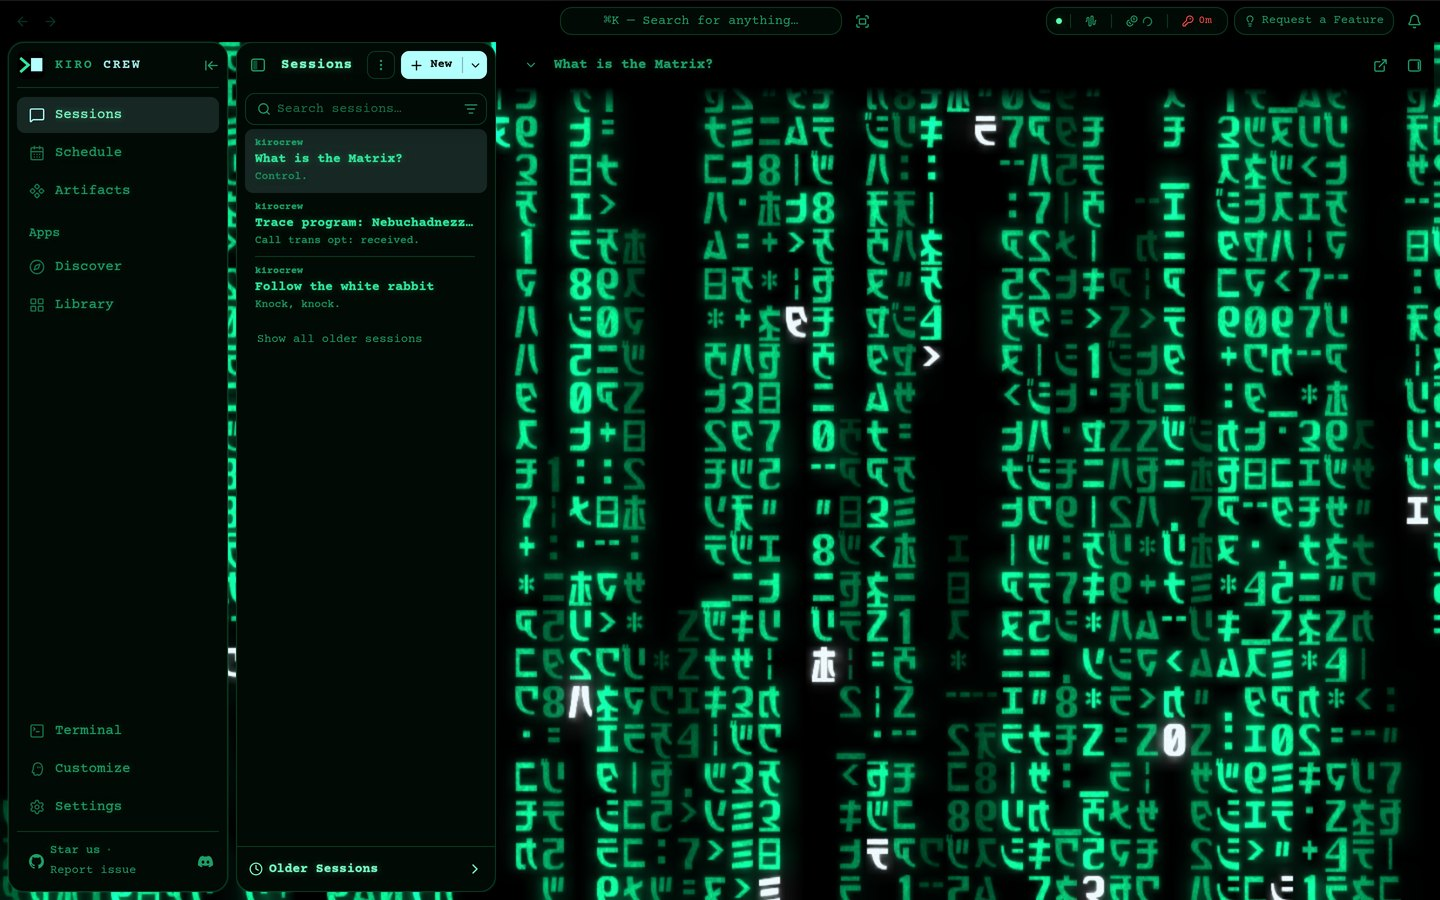
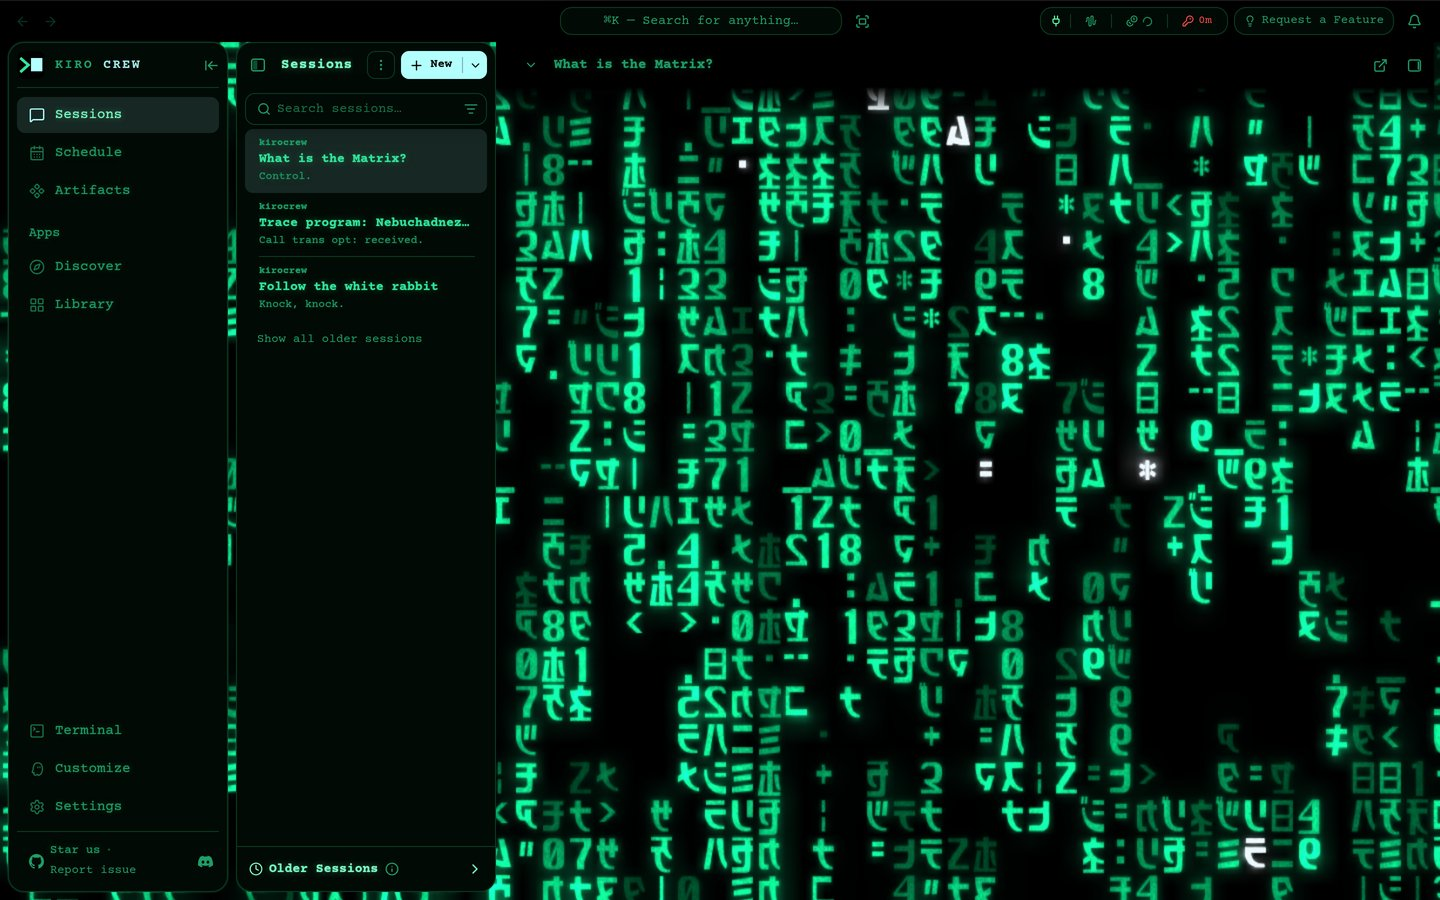
Screensaver rain moves like the film
The rain now runs at the film's 24 frames per second on a film-frame clock (3-2 cadence at 60 Hz). Drop heads jump whole cells at 9-37 rows a second, trails are a few rows with a long tail, about two drops share a column, and a lit glyph changes about once a second. White leads stay at 1.8% of the lit area and about 22% of the screen is lit. The terminal intro, colors, glyphs, dismiss and sleep are unchanged. The README film table gains motion rows, and the rain screenshot is re-rendered.

diff --git a/overlays/rain.html b/overlays/rain.html
@@ -29,6 +29,11 @@
  *    is a wave of light passing down a column; several drops share a column
  *    without colliding; the lead glyph is a near-white "cursor"; glyphs flicker
  *    to new symbols; everything is bloomed, then mapped to the green palette.
+ *    The motion is the film's, measured from its opening titles (see the repo
+ *    README): 24 frames a second, heads jump whole cells per film frame (mostly
+ *    one row, sometimes none or two) at about 9-37 rows a second, trails are
+ *    mostly a few rows with a long tail, about two drops share a column, and a
+ *    lit glyph changes about once a second.
  *
  * Runs inside the dashboard's sandboxed overlay iframe (no network, no storage).
  * The dashboard mounts it after 15 idle minutes and removes it on a key press
@@ -56,6 +61,7 @@
     [1.00, [14, 205, 128]],
   ]
   const LEVELS = 24
+  const LEAD_SHARE = 0.14
 
   const canvas = document.getElementById('screen')
   const ctx = canvas.getContext('2d')
@@ -130,27 +136,26 @@
     timers = new Float32Array(cols * rows)
     for (let i = 0; i < grid.length; i++) {
       grid[i] = (Math.random() * RAIN.count) | 0
-      timers[i] = Math.random() * 4
+      timers[i] = Math.random() * 1.3
     }
     columns = []
     for (let c = 0; c < cols; c++) columns.push(newColumn())
   }
 
   function newColumn() {
-    // Speed in rows/second, period between drop heads, and how much of that
-    // period the trail fills (modulating it keeps drops from looking cloned
-    // and leaves dark gaps, so drops in one column never collide).
-    // Long periods keep the number of drop heads on screen near the film's
-    // (about one white lead per five columns); long trails keep ~20 % lit.
-    const period = rows * (1.6 + Math.random() * 2.4)
+    // Film: heads at 9-37 rows/s (median ~22), trails median ~5 rows with a
+    // tail past the screen height, and gaps of 2-7 rows, so about two drops
+    // share a column, they never collide, and ~22 % of the screen is lit.
+    // Speed, trail and gap differ per column, so drops do not look cloned.
+    const trail = 2 + 32 * Math.pow(Math.random(), 1.6)
+    const period = Math.round(trail + 2 + Math.random() * 5)
     return {
-      speed: 7 + Math.random() * 9,
+      speed: 9 + Math.random() * 28,
       period,
-      trail: period * (0.55 + Math.random() * 0.4),
-      phase: Math.random() * period,
+      trail,
+      phase: Math.floor(Math.random() * period),
       gain: 0.75 + Math.random() * 0.25,
-      // In the film only some drop heads flare white; the rest end in bright green.
-      lead: Math.random() < 0.7,
+      leadAt: Math.random(),
     }
   }
 
@@ -247,23 +252,31 @@
     ctx.globalAlpha = alpha
     for (let c = 0; c < cols; c++) {
       const col = columns[c]
-      const head = now * col.speed + col.phase
+      // Whole cells: the head sits on a glyph and jumps on film frames.
+      const head = Math.floor(now * col.speed) + col.phase
       const x = c * cellW + (cellW - gw) / 2
       for (let r = 0; r < rows; r++) {
-        let d = (head - r) % col.period
+        const s = head - r
+        let d = s % col.period
         if (d < 0) d += col.period
         const i = c * rows + r
         timers[i] -= dt
         let b
-        if (d < 1) b = col.lead ? 2 : col.gain
-        else if (d < col.trail) b = Math.pow(1 - d / col.trail, 0.6) * col.gain
+        if (d < 1) {
+          // In the film only some drop heads flare white; the rest end in bright
+          // green. Each drop takes its turn (an even spread down the column), and
+          // LEAD_SHARE of them flare, which keeps white leads at the film's share
+          // of the lit area.
+          const u = ((s - d) / col.period * 0.6180339887 + col.leadAt) % 1
+          b = (u < 0 ? u + 1 : u) < LEAD_SHARE ? 2 : col.gain
+        } else if (d < col.trail) b = Math.pow(1 - d / col.trail, 0.6) * col.gain
         else continue
         // The film shows few faint ghosts: a lit trail stays bright, then ends.
         if (b < 0.14) continue
-        // Lit glyphs change symbol now and then; brighter ones more often.
+        // Film: a lit glyph changes about once a second; white leads faster.
         if (timers[i] <= 0) {
           grid[i] = (Math.random() * RAIN.count) | 0
-          timers[i] = 0.4 + Math.random() * (b > 1 ? 0.3 : 3.5)
+          timers[i] = 0.25 + Math.random() * (b > 1 ? 0.2 : 1.1)
         }
         const g = grid[i]
         const sx = (g % RAIN.cols) * RAIN.cell
@@ -349,12 +362,21 @@
     window.addEventListener('pointerdown', e => { e.preventDefault(); dismiss() })
     window.addEventListener('wheel', dismiss, { passive: true })
     window.addEventListener('keydown', dismiss)
+    // Film frames of rain shown so far (-1 until the rain starts).
+    let film = -1
     function frame(ts) {
       const dt = Math.min(0.25, (ts - last) / 1000)
       last = ts
       acc += dt
-      if (acc >= FRAME) {
-        const t = (ts - start) / 1000
+      const t = (ts - start) / 1000
+      // The terminal draws on its own cadence, as before. The rain advances
+      // whole film frames and keeps the remainder, so a 60 Hz screen shows them
+      // on an even 3-2-3-2 cadence (24 a second, like film on TV) and every
+      // drawn frame moves the rain by the same film time.
+      let n = 0
+      if (t < CONSOLE_END) n = acc >= FRAME ? 1 : 0
+      else if (acc >= FRAME - 0.002) n = Math.min(3, Math.max(1, Math.floor((acc + 0.002) / FRAME)))
+      if (n) {
         const awake = (ts - shownAt) / 1000
         if (awake > SLEEP_AT && canvas.classList.contains('on')) {
           canvas.style.transition = 'opacity 3s linear'
@@ -369,14 +391,21 @@
           bloom(0.3, 0.2, 0)
           scanlines()
           drawCursor(cur)
+          acc = 0
         } else {
-          const rt = t - CONSOLE_END
+          if (film < 0) {
+            film = Math.round((t - CONSOLE_END) / FRAME)
+            acc = 0
+          } else {
+            film += n
+            acc = Math.min(FRAME, Math.max(0, acc - n * FRAME))
+          }
+          const rt = film * FRAME
           const fade = Math.min(1, rt / 1.5)
-          drawRain(acc, rt, fade, levels, lead)
+          drawRain(n * FRAME, rt, fade, levels, lead)
           bloom()
           redrawLeads(lead, cellW * 1.04 / RAIN.inkW, cellH * 0.92 / RAIN.inkH, fade)
         }
-        acc = 0
       }
       if (!stopped) raf = requestAnimationFrame(frame)
     }

diff --git a/README.md b/README.md
@@ -41,7 +41,9 @@ To update, install the same URL again.
 
 ## How close it is to the film
 
-Every film number was measured from 4K UHD frames, using the median of lit pixels. The 4K UHD color timing is close to the 1999 theatrical release. The 2008 Blu-ray added a stronger green tint.
+Colors, sizes and lit area were measured from 4K UHD frames, using the median of lit pixels. The 4K UHD color timing is close to the 1999 theatrical release. The 2008 Blu-ray added a stronger green tint.
+
+The rain's motion was measured from the film's opening titles at its native 24 frames per second. The only copy reachable was a low-resolution fan upload (544 × 360), so the trail and flicker figures are rougher than the speed and stepping figures. The theme's motion figures come from the screensaver's own rendered frames, read the same way.
 
 | Element | Film | Theme |
 |---|---|---|
@@ -49,11 +51,17 @@ Every film number was measured from 4K UHD frames, using the median of lit pixel
 | Block cursor | `#B2FFFE`, 1.17:1 tall (opening frame) | same color and shape |
 | Rain glyph ink, at 1280 px wide | 20 × 28 px | 20 × 28 px |
 | Rain row pitch | 34 px | 34 px |
-| Rain screen area lit | 20.7%–24.7% | 22%–24% |
-| White lead glyphs, share of lit area | 1.7%–1.8% | 1.6%–2.5% |
+| Rain screen area lit | 20.7%–24.7% | 21%–23% |
+| White lead glyphs, share of lit area | 1.7%–1.8% | 1.8% on average |
 | Rain hue | 154° | 155° |
 | Lead glyph | cool white, `#EBF6FB` | `#ECF8FD` |
 | Typeface | Courier-style slab mono | Courier Prime |
+| Rain frame rate | 24 fps | 24 fps (on a 60 Hz screen, frames alternate 3 and 2 refreshes, as film does on TV) |
+| Drop head speed | about 22 rows/s median (10–36) | about 25 rows/s median (13–33) |
+| Stepping | whole cells per film frame: one row most often, none on 24%–41% of frames, sometimes two | one row on 65%–71% of frames, none on 17%–21%, two on 8%–13% |
+| Trail length | 40% run off the top of the picture; the rest median 3.8 rows | 35%–45% run off the top; the rest median 3–5 rows |
+| Drops per column at once | 1.4–2.3 | 2.0–2.4 |
+| Glyph flicker | 0.7–1.9 changes per second per lit glyph | 1.1–1.2 |
 
 The rain follows the film's rules as documented by [Rezmason/matrix](https://github.com/Rezmason/matrix):
 
